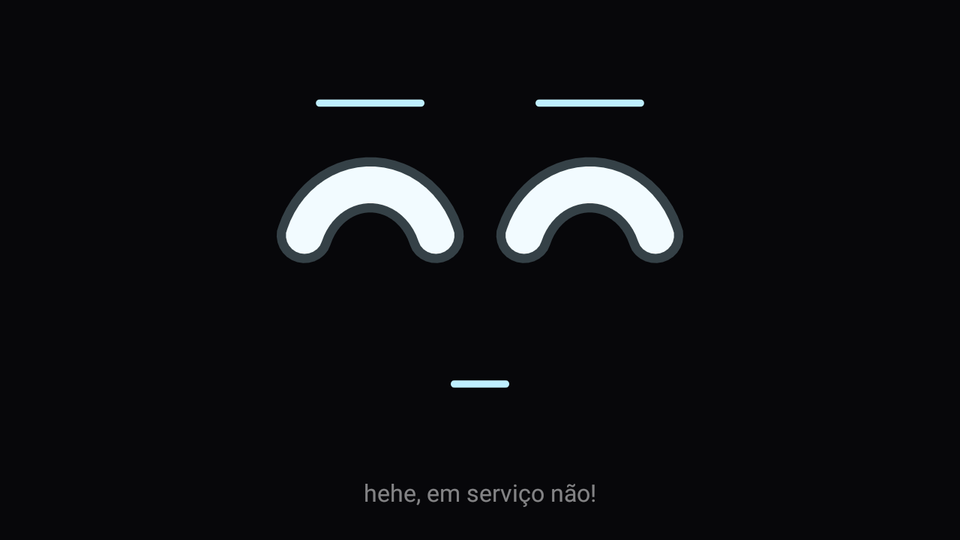
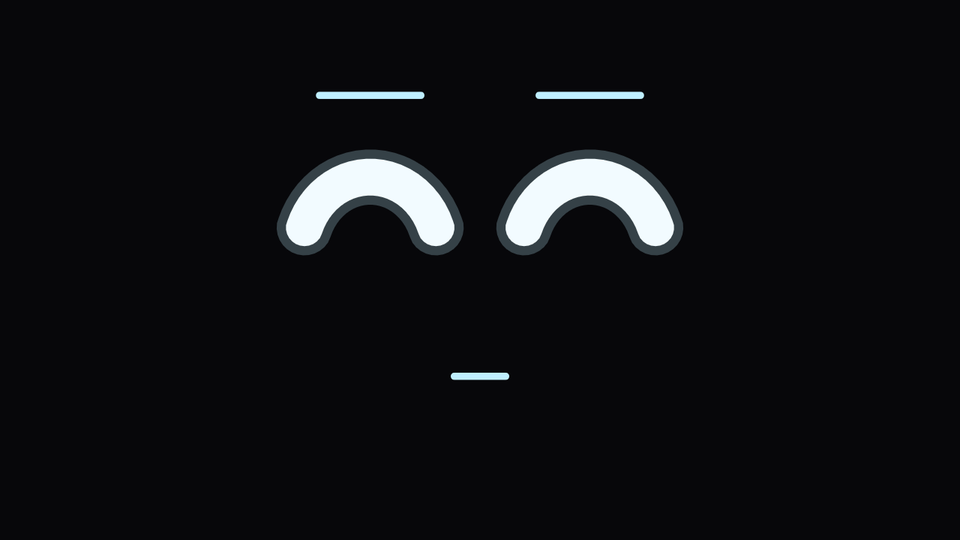
feat: Clanker só fala em eventos de container e de hardware

diff --git a/app/src/test/java/dev/rique/guardiao/mood/MoodEngineTest.kt b/app/src/test/java/dev/rique/guardiao/mood/MoodEngineTest.kt
@@ -14,7 +14,7 @@ class MoodEngineTest {
     fun idle_is_contente_with_caption() {
         val s = engine().state(emptyList(), 0)
         assertEquals(Expression.CONTENTE, s.expression)
-        assertEquals("tudo sob controle", s.caption)
+        assertEquals("", s.caption)
     }
 
     @Test
@@ -64,10 +64,10 @@ class MoodEngineTest {
     }
 
     @Test
-    fun idle_caption_follows_the_shift() {
-        assertEquals("tudo sob controle", engine(9).state(emptyList(), 0).caption)
-        assertEquals("ninguém cai no meu turno", engine(15).state(emptyList(), 0).caption)
-        assertEquals("vigiando enquanto você dorme", engine(2).state(emptyList(), 0).caption)
+    fun idle_has_no_caption_any_time() {
+        assertEquals("", engine(9).state(emptyList(), 0).caption)
+        assertEquals("", engine(15).state(emptyList(), 0).caption)
+        assertEquals("", engine(2).state(emptyList(), 0).caption)
     }
 
     @Test
@@ -207,7 +207,7 @@ class MoodEngineTest {
     fun night_rests_calm() {
         val s = engine(22).state(emptyList(), 0)
         assertEquals(Expression.CALMO, s.expression)
-        assertEquals("vigiando enquanto você dorme", s.caption)
+        assertEquals("", s.caption)
         assertTrue(idleRun(22).count { it.expression == Expression.CALMO } > idleRun(22).size / 2)
     }
 
@@ -246,7 +246,7 @@ class MoodEngineTest {
         assertEquals(0.8f, s.gazeX, 0.001f)
         assertEquals(-0.5f, s.gazeY, 0.001f)
         assertEquals(Effect.BOUNCE, s.effect)
-        assertEquals("oi, chefe!", s.caption)
+        assertEquals("", s.caption)
     }
 
     @Test
@@ -255,7 +255,7 @@ class MoodEngineTest {
         e.onTouch(0.8f, -0.5f, 1_000)
         val s = e.state(emptyList(), 2_700)
         assertEquals(Expression.CONTENTE, s.expression)
-        assertEquals("tudo sob controle", s.caption)
+        assertEquals(0f, s.gazeX, 0f)
     }
 
     @Test
@@ -264,7 +264,7 @@ class MoodEngineTest {
         val t = taps(e, 2)
         val s = e.state(emptyList(), t + 100)
         assertEquals(Expression.COMEMORANDO, s.expression)
-        assertEquals("hehe, em serviço não!", s.caption)
+        assertEquals("", s.caption)
     }
 
     @Test
@@ -274,11 +274,11 @@ class MoodEngineTest {
         val angry = e.state(emptyList(), t3 + 100)
         assertEquals(Expression.BRAVO, angry.expression)
         assertEquals(Effect.SHAKE, angry.effect)
-        assertEquals("ei, tô trabalhando!", angry.caption)
+        assertEquals("", angry.caption)
         val t5 = taps(e, 2, t3 + 300)
         val drama = e.state(emptyList(), t5 + 100)
         assertEquals(Expression.DRAMATICO, drama.expression)
-        assertEquals("socorro, tô em serviço!", drama.caption)
+        assertEquals("", drama.caption)
     }
 
     @Test
@@ -296,7 +296,7 @@ class MoodEngineTest {
         val e = engine()
         val t = taps(e, 3)
         e.onTouch(0f, 0f, t + 4_000)
-        assertEquals("oi, chefe!", e.state(emptyList(), t + 4_100).caption)
+        assertEquals(Expression.CURIOSO, e.state(emptyList(), t + 4_100).expression)
     }
 
     @Test
@@ -306,7 +306,7 @@ class MoodEngineTest {
         val s = e.state(emptyList(), 1_100)
         assertEquals(Expression.SONOLENTO, s.expression)
         assertEquals(-0.6f, s.gazeX, 0.001f)
-        assertEquals("hm? tô de plantão...", s.caption)
+        assertEquals("", s.caption)
     }
 
     @Test
@@ -325,7 +325,7 @@ class MoodEngineTest {
     fun short_music_visit_is_fine() {
         val e = engine()
         e.onBackFromMusic(10_000, 1_000)
-        assertEquals("tudo sob controle", e.state(emptyList(), 1_100).caption)
+        assertEquals(Expression.CONTENTE, e.state(emptyList(), 1_100).expression)
     }
 
     @Test
@@ -334,9 +334,9 @@ class MoodEngineTest {
         e.onBackFromMusic(40_000, 1_000)
         val s = e.state(emptyList(), 1_100)
         assertEquals(Expression.BRAVO, s.expression)
-        assertEquals("hmpf... trocou o segurança pela música", s.caption)
+        assertEquals("", s.caption)
         assertTrue(s.gazeX < -0.5f)
-        assertEquals("tudo sob controle", e.state(emptyList(), 5_200).caption)
+        assertTrue(e.state(emptyList(), 5_200).expression != Expression.BRAVO)
     }
 
     @Test
@@ -345,7 +345,7 @@ class MoodEngineTest {
         e.onBackFromMusic(200_000, 1_000)
         val s = e.state(emptyList(), 1_100)
         assertEquals(Expression.DRAMATICO, s.expression)
-        assertEquals("achei que tinha sido demitido!", s.caption)
+        assertEquals("", s.caption)
     }
 
     @Test
@@ -353,6 +353,6 @@ class MoodEngineTest {
         val e = engine()
         e.onBackFromMusic(40_000, 1_000)
         e.onTouch(0f, 0f, 2_000)
-        assertEquals("oi, chefe!", e.state(emptyList(), 2_100).caption)
+        assertEquals(Expression.CURIOSO, e.state(emptyList(), 2_100).expression)
     }
 }

diff --git a/app/src/main/java/dev/rique/guardiao/mood/MoodEngine.kt b/app/src/main/java/dev/rique/guardiao/mood/MoodEngine.kt
@@ -56,24 +56,24 @@ class MoodEngine(
         touchCount++
         lastTouchMs = nowMs
         val night = DayPeriod.of(hourOf(nowMs)) == DayPeriod.NOITE
-        val (expression, effect, caption) = when {
-            touchCount >= 5 -> Triple(Expression.DRAMATICO, Effect.SHAKE, "socorro, tô em serviço!")
-            touchCount >= 3 -> Triple(Expression.BRAVO, Effect.SHAKE, "ei, tô trabalhando!")
-            touchCount == 2 -> Triple(Expression.COMEMORANDO, Effect.BOUNCE, "hehe, em serviço não!")
-            night -> Triple(Expression.SONOLENTO, Effect.NONE, "hm? tô de plantão...")
-            else -> Triple(Expression.CURIOSO, Effect.BOUNCE, "oi, chefe!")
+        val (expression, effect) = when {
+            touchCount >= 5 -> Expression.DRAMATICO to Effect.SHAKE
+            touchCount >= 3 -> Expression.BRAVO to Effect.SHAKE
+            touchCount == 2 -> Expression.COMEMORANDO to Effect.BOUNCE
+            night -> Expression.SONOLENTO to Effect.NONE
+            else -> Expression.CURIOSO to Effect.BOUNCE
         }
-        touchState = MoodState(expression, gazeX = x, gazeY = y, effect = effect, caption = caption, effectKey = nowMs)
+        touchState = MoodState(expression, gazeX = x, gazeY = y, effect = effect, effectKey = nowMs)
         touchUntilMs = nowMs + if (touchCount >= 3) 2_200 else 1_500
     }
 
     fun onBackFromMusic(stayedMs: Long, nowMs: Long) {
-        val (expression, caption) = when {
-            stayedMs >= 180_000 -> Expression.DRAMATICO to "achei que tinha sido demitido!"
-            stayedMs >= 30_000 -> Expression.BRAVO to "hmpf... trocou o segurança pela música"
+        val expression = when {
+            stayedMs >= 180_000 -> Expression.DRAMATICO
+            stayedMs >= 30_000 -> Expression.BRAVO
             else -> return
         }
-        touchState = MoodState(expression, gazeX = -0.9f, gazeY = 0.3f, caption = caption)
+        touchState = MoodState(expression, gazeX = -0.9f, gazeY = 0.3f)
         touchUntilMs = nowMs + 4_000
     }
 
@@ -109,11 +109,6 @@ class MoodEngine(
             offsetX = q?.offsetX ?: 0f,
             tilt = q?.tilt ?: 0f,
             effect = q?.effect ?: Effect.NONE,
-            caption = when (DayPeriod.of(hourOf(nowMs))) {
-                DayPeriod.MANHA -> "tudo sob controle"
-                DayPeriod.TARDE -> "ninguém cai no meu turno"
-                DayPeriod.NOITE -> "vigiando enquanto você dorme"
-            },
             blink = blink(expression, nowMs),
         )
     }

diff --git a/README.md b/README.md
@@ -36,21 +36,23 @@ Depois de 60 s sem toque, qualquer tela volta para o Clanker.
 | Servidor sem resposta | fica procurando |
 | Tudo bem | manias aleatórias, olhos de coração de vez em quando |
 
+Ele só fala quando acontece algo com um container ou com o hardware ("PERDI O nginx!", "CPU em 93%, aguenta firme!"). No resto do tempo, só faz caras.
+
 **Quando você toca nele** (ele olha para onde o dedo tocou):
 
 | Toques seguidos | Reação |
 |---|---|
-| 1 | "oi, chefe!" e um pulinho (à noite: "hm? tô de plantão...", com sono) |
-| 2 | "hehe, em serviço não!", com cócegas |
-| 3–4 | "ei, tô trabalhando!", bravo |
-| 5 ou mais | "socorro, tô em serviço!", dramático |
+| 1 | um pulinho, curioso (à noite: sonolento) |
+| 2 | ri de cócegas |
+| 3–4 | fica bravo e treme |
+| 5 ou mais | dramático |
 
 <p align="center">
   <img src="docs/img/bravo.png" width="320" alt="Clanker bravo">
   <img src="docs/img/socorro.png" width="320" alt="Clanker dramático">
 </p>
 
-**Ciúme da música:** se você passa mais de 30 s na tela de música, ele volta emburrado, olhando para o outro lado ("hmpf... trocou o segurança pela música"). Depois de 3 min, fica dramático: "achei que tinha sido demitido!". Um toque nele desfaz o bico.
+**Ciúme da música:** se você passa mais de 30 s na tela de música, ele volta emburrado, olhando para o outro lado. Depois de 3 min, fica dramático. Um toque nele desfaz o bico.
 
 **A hora do dia:**
 - **Manhã (6h–12h):** agitado, mexe toda hora e dá pulinhos.

diff --git a/docs/USO.md b/docs/USO.md
@@ -11,7 +11,7 @@ O Moto C Plus funciona como um display dedicado. São três telas: o painel do s
   - CPU alta, disco cheio ou temperatura alta: fica bravo ou dramático;
   - servidor sem resposta: fica procurando;
   - tudo bem: tem manias aleatórias, incluindo os olhos de coração.
-  - Tocar nele: olha para o dedo e diz "oi, chefe!". Dois toques são cócegas; de 3 em diante ele fica bravo e, a partir de 5, dramático. Depois de 3 s sem toque ele esquece.
+  - Tocar nele: olha para o dedo e dá um pulinho. Dois toques são cócegas; de 3 em diante ele fica bravo e, a partir de 5, dramático. Depois de 3 s sem toque ele esquece.
   - Ciúme: depois de mais de 30 s na tela de música, ele volta emburrado; depois de 3 min, dramático.
   - O humor muda com a hora:
     - manhã (6h–12h): agitado, mexe muito e dá pulinhos;
